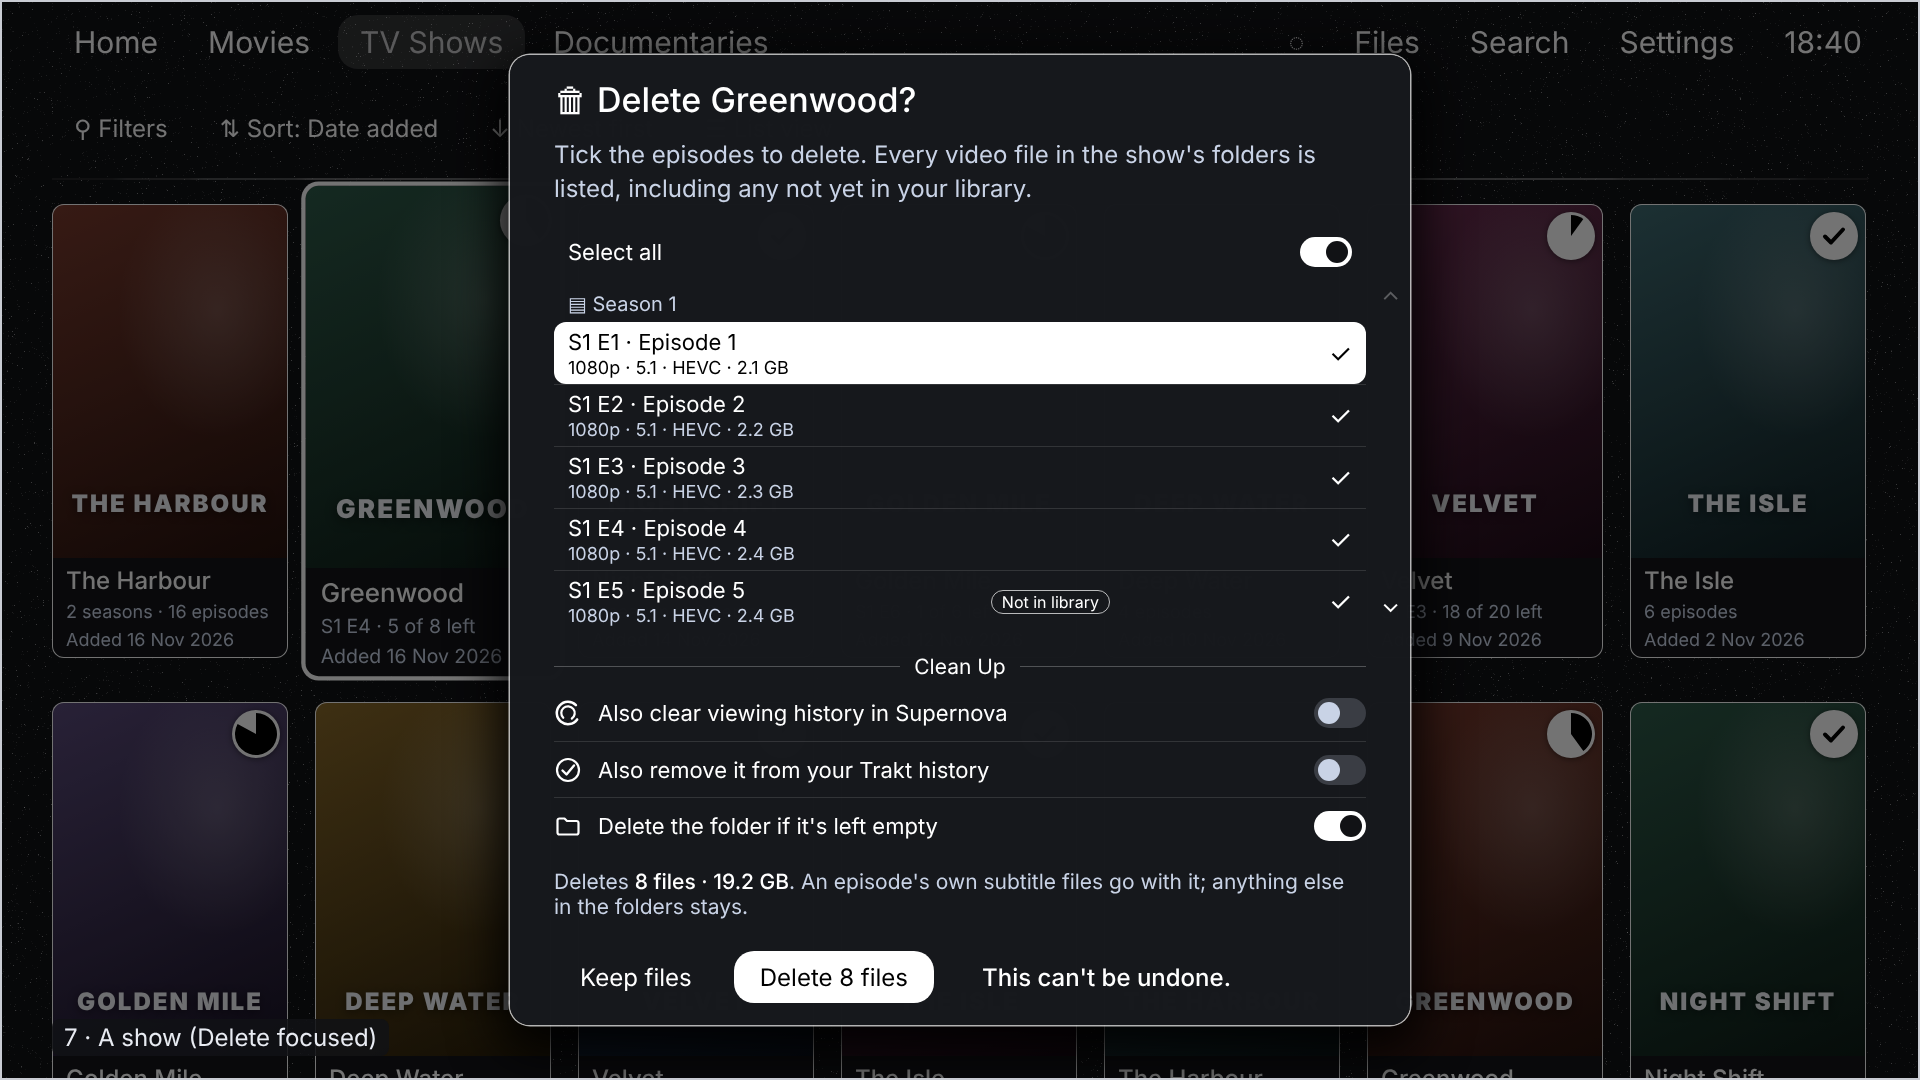
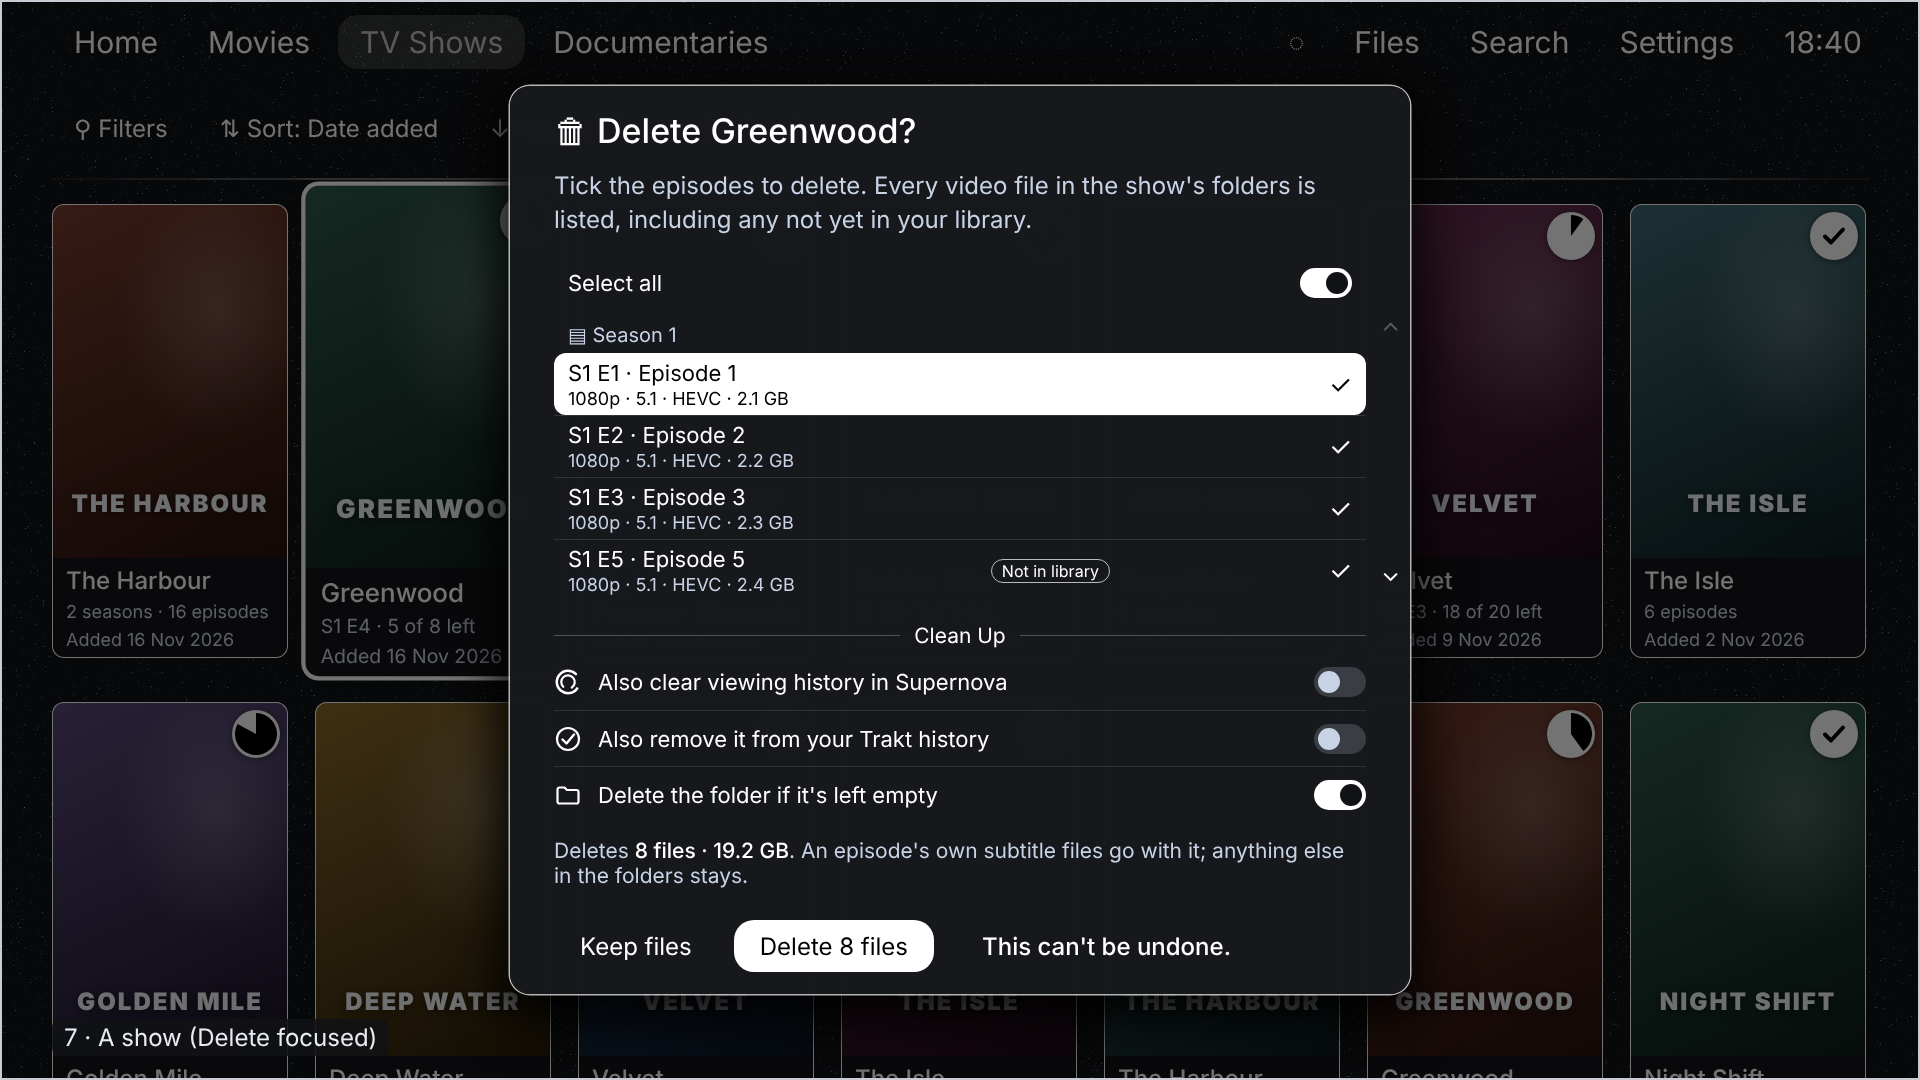
Long-press menu and delete warnings approved (owner): page sheet, RULES §7b, brief; show list at four episodes
Claude-Session: https://claude.ai/code/session_01FtDZqYQTGsHUL41wBkAMmc

diff --git a/docs/design/proposals/rows-captions/delete-choose-tv.html b/docs/design/proposals/rows-captions/delete-choose-tv.html
@@ -108,7 +108,7 @@ document.getElementById('f').innerHTML=page("Movies",MOV,1)+`<div class="scrim">
 <div class="r on"><div class="body"><div class="nm">2160p · HDR10 · Dolby Atmos</div><div class="sb">Golden Mile (2025) 2160p.mkv · Media server · 58.2 GB</div></div><span class="tr">✓</span></div>
 <div class="r"><div class="body"><div class="nm">1080p · 5.1 · HEVC</div><div class="sb">Golden Mile (2025) 1080p.mp4 · This device › Backup drive 1 · 14.1 GB</div></div><span class="tr">✓</span></div></div>
 ${SW}<div class="tot">Deletes <b>2 files · 72.3 GB</b>.</div><div class="bt"><span>Keep files</span><span class="f">Delete 2 files</span><span class="warnb">This can't be undone.</span></div></div><div class="cap2">6 · Versions of a film (Delete focused)</div><div class="border"></div>`;
-let eps='';for(let i=1;i<=4;i++)eps+=`<div class="r${i==1?' on':''}"><div class="body"><div class="nm">S1 E${i} · Episode ${i}</div><div class="sb">1080p · 5.1 · HEVC · 2.${i} GB</div></div><span class="tr">✓</span></div>`;
+let eps='';for(let i=1;i<=3;i++)eps+=`<div class="r${i==1?' on':''}"><div class="body"><div class="nm">S1 E${i} · Episode ${i}</div><div class="sb">1080p · 5.1 · HEVC · 2.${i} GB</div></div><span class="tr">✓</span></div>`;
 document.getElementById('g').innerHTML=page("TV Shows",TV,1)+`<div class="scrim"></div><div class="dialog tall" style="top:50%;padding-top:24px;padding-bottom:22px"><div class="ti">🗑 Delete Greenwood?</div><div class="bd">Tick the episodes to delete. Every video file in the show's folders is listed, including any not yet in your library.</div>
 <div class="dl"><div class="selsw">Select all<i></i></div><div class="gh">▤ Season 1</div>${eps}
 <div class="r"><div class="body" style="display:flex;align-items:center"><div><div class="nm">S1 E5 · Episode 5</div><div class="sb">1080p · 5.1 · HEVC · 2.4 GB</div></div><div style="flex:1;display:flex;justify-content:center"><span class="pill" style="margin:0">Not in library</span></div></div><span class="tr">✓</span></div>

diff --git a/docs/design/pages/LIBRARY.md b/docs/design/pages/LIBRARY.md
@@ -72,12 +72,34 @@ closes. Group headings centred on their line, Title Case.
 - Delete page (own pages only) at the foot, apart by a plain line, no heading; real deletion uses the delete warning.
 - Movies and TV Shows hide rows that don't apply (no Page name, no Includes, no Delete page).
 
-## Long-press (or Menu) on a poster — beside the poster (`30`)
-- Movie: Play (or Resume) · Mark as watched · Fix match · Remove from library · Delete file.
-- TV show: Resume S1 E2 · Play from the start · Mark show as watched · Fix match · Remove from library · Delete all
-  episode files.
-- Icons each, no two alike; Playback / Library / Files & Media groups; no "More info" (OK already opens Details); no
-  Restart on an unstarted title.
+## Long-press (or Menu) on a poster — beside the poster (`30`; reviewed by the owner 19–20 Nov, mock-ups `rows-captions/tv/11`, `12`)
+- Movie: **Playback** Play (started: Resume · 42 min left, then Play from the start) · **Library** Mark as watched · Fix
+  match · Remove from library · **Files & Media** Delete file.
+- TV show: **Playback** Resume S1 E2 · Play from the start (not started: Play) · **Library** Mark show as watched · Fix
+  match · Remove from library · **Files & Media** Delete all episode files.
+- Icons each, no two alike; group headings centred on a thin line; no "More info" (OK already opens Details); no Play
+  from the start on an unstarted title. Times read "2 h 22 min left", never "142 min". The menu is as wide as its longest
+  line plus the standard padding.
+
+## Delete warnings (owner, 20 Nov; mock-ups `rows-captions/tv/16a`, `16`, `17`, `18`; RULES §7b)
+- **One file:** "Delete <title>?"; one line "Deletes **<file name>** (2160p · 58.2 GB) from **<server or drive>**.";
+  then **Clean Up**; buttons **Keep file** (focused when it opens) · **Delete file**.
+- **Several versions of a film:** "You have **2 versions**. Tick the ones to delete." **Select all** as a switch (on =
+  all ticked; unticking one turns it off), then one row per version: the facts line (first three of Edition ·
+  Resolution · HDR · Sound · Video codec that the file has), under it file name · where it lives · size; the app's tick on
+  the right; all ticked to start. Total under the list ("Deletes **2 files · 72.3 GB**."); the button follows the ticks
+  ("Delete 2 files").
+- **A show (Delete all episode files):** "Tick the episodes to delete. Every video file in the show's folders is listed,
+  including any not yet in your library." Select all switch; episodes grouped by season, each "S1 E1 · Episode name" over
+  the facts line · size; files the library doesn't know carry a **Not in library** pill centred between the text and the
+  tick; **four episodes visible** with both scroll arrows in the right margin (up dimmed at the top). Total: "Deletes **8
+  files · 19.2 GB**. An episode's own subtitle files go with it; anything else in the folders stays." Pictures, PDFs and
+  other non-video files are never listed or deleted.
+- **Clean Up** (a heading centred on a thin line, on every delete warning): Also clear viewing history in Supernova (the
+  official mark, monochrome; off) · Also remove it from your Trakt history (Trakt's official one-colour logo; off) ·
+  Delete the folder if it's left empty (folder icon; **on**; the folder goes only if nothing at all is left in it).
+- **"This can't be undone."** appears **only while Delete is focused**, beside the button, in white, with a full stop
+  (owner, 20 Nov: no exclamation mark). Left-aligned throughout (RULES §7b).
 
 ## Empty pages (`34`, RULES §23)
 **Reviewed by the owner, 19 Nov** (`34` with today's top bar, speckle and 52 px button; wording below replaces `34`'s):

diff --git a/docs/0.158/BRIEF_0158_B.md b/docs/0.158/BRIEF_0158_B.md
@@ -187,6 +187,12 @@ Users and tags, Guest (still being designed). Onboarding (later). The Trakt list
   menu and side panel keeps `#16181C` at 99% and gains a white outline at 70% (about 1.5 px at 1080p) and a dark
   shadow spreading outwards (black about 85%, about 48 px soft, 18 px down). One shared look, so all change together.
   Playback Settings over video: leave as it is until the player walk-through.
+- **Long-press menu and delete warnings (owner, 20 Nov; LIBRARY.md › Long-press, Delete warnings; RULES §7b;
+  mock-ups `rows-captions/tv/11`–`18`):** build the warnings exactly as the sheet says, for Delete file, versions of a
+  film and Delete all episode files: Keep focused first; "This can't be undone." only beside a focused Delete; the
+  ticked list with a Select all switch, facts line, Not in library pill, four rows visible with scroll arrows; Clean Up
+  with the three switches (folder switch on by default and only removing an empty folder); totals; the button names
+  the count. This replaces D1's "one notice" wording: the list is how nothing gets left behind. Times as "2 h 22 min".
 - **Empty library pages (owner, 19 Nov; LIBRARY.md › Empty pages):** "No movies yet" (never "films"), "Add a folder,
   a drive or a network share and your movies will appear here." (TV shows likewise); while the first scan runs, the
   shared spinning loading ring, animated as on Preparing playback, **no grey circle behind it**, and "The first ones

diff --git a/docs/design/RULES.md b/docs/design/RULES.md
@@ -148,6 +148,13 @@ One brightness scale that follows your path, everywhere, top bar and tabs includ
   folder for Movies"), one breadcrumb shows the location; "Current" marks the folder in use; the focused folder offers
   Use this folder · Open; New folder at the bottom (§28).
 - **Warnings:** left-aligned (heading, name, text, options, buttons); the safe choice has focus first ("Keep file").
+  **Delete warnings (owner, 20 Nov; LIBRARY.md › Delete warnings):** "This can't be undone." shows only while the
+  Delete button is focused, beside it, with a full stop; options sit under a **Clean Up** heading (history in
+  Supernova, Trakt history, delete the folder if it's left empty: on); with more than one file, a ticked list (ticks
+  on the right, a **Select all** switch) and a running total; the Delete button names the count.
+- **Technical facts line (owner, 20 Nov):** wherever files are told apart (delete, choose a version, Files), show the
+  first three a file has of **Edition · Resolution · HDR · Sound · Video codec**; a missing one lets the next move up.
+  Size goes on the line below with the file name and where it lives.
 - **Offer real options, not just yes/no** (owner, 12 Nov): e.g. Delete has switches for Supernova history and Trakt
   history, off by default.
 - **Badges and counts agree:** a tab's badge, its summary fact and its rows use the same number and words (§28).

diff --git a/docs/0.158/REVIEW_0158.md b/docs/0.158/REVIEW_0158.md
@@ -104,3 +104,6 @@ The owner will do the full walk-through when part B is finished; these are thing
   plus a dark shadow** (RULES §11).
 - **L3 / L4 decided (owner, 19 Nov, on the TV):** 52 px boxes, 24 px either side of the line, line white at 35%
   thinning at the ends (LIBRARY.md).
+- **L6. Long-press menu and delete warnings: approved (owner, 20 Nov)** with every change in LIBRARY.md (versions list,
+  episode list with Not in library, Clean Up, folder switch, warning only beside a focused Delete, no exclamation mark,
+  four episodes visible).
